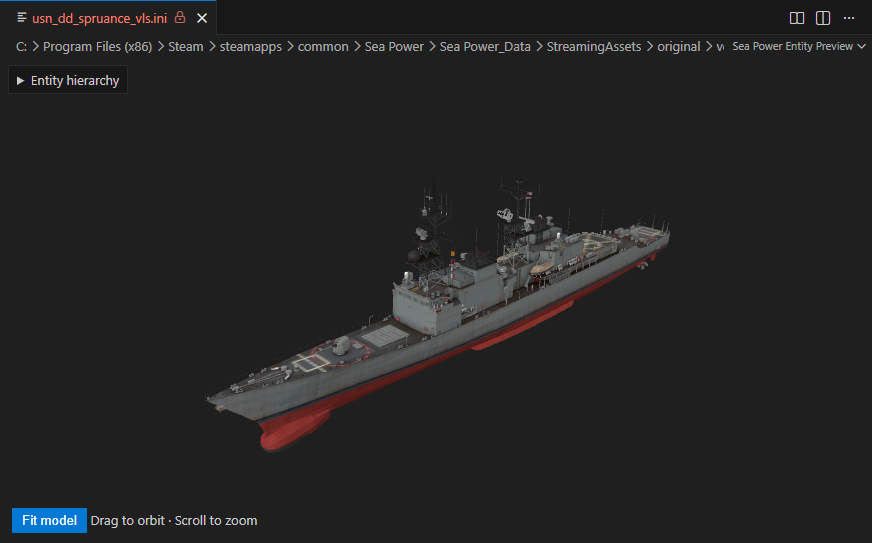
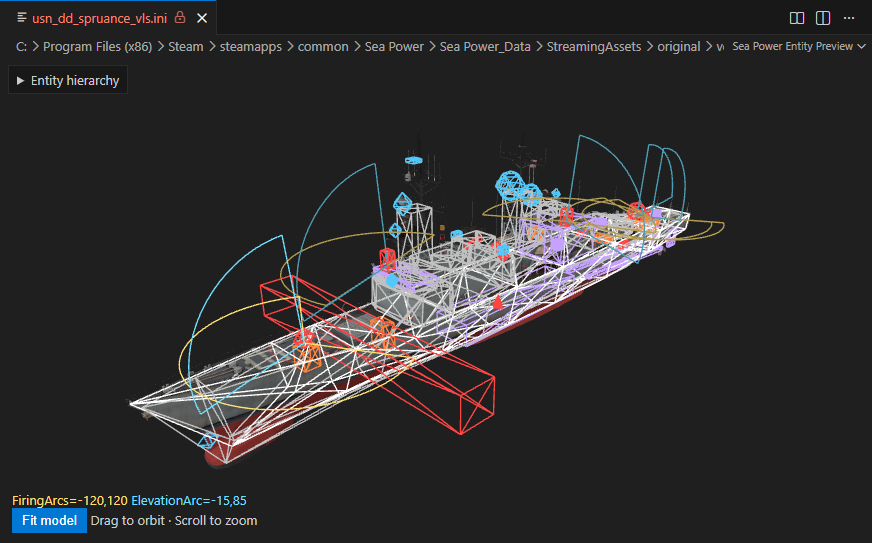
Combine the Spruance model, collider and arc screenshots

diff --git a/sp-ini/README.md b/sp-ini/README.md
@@ -70,10 +70,6 @@ Captured in VS Code with the stock Spruance VLS destroyer.
 
 ![Spruance VLS in the FBX viewer](17-fbx-preview.png)
 
-## Spruance VLS in the entity preview
-
-![Spruance VLS in the entity preview](26-entity-preview.png)
-
 ## Mesh tooltip on the assembled Spruance
 
 ![Mesh tooltip on the assembled Spruance](18-entity-mesh-hover.png)
@@ -82,9 +78,9 @@ Captured in VS Code with the stock Spruance VLS destroyer.
 
 ![Meshes, colliders and system markers on the Spruance](22-entity-trees.png)
 
-## Selected system firing and elevation arcs
+## Spruance VLS with wireframe colliders and system arcs
 
-![Selected system firing and elevation arcs](25-system-arcs.png)
+![Spruance VLS with wireframe colliders and system arcs](26-entity-preview.png)
 
 ## Highlighted colliders with the weapon system first in the tooltip
 
